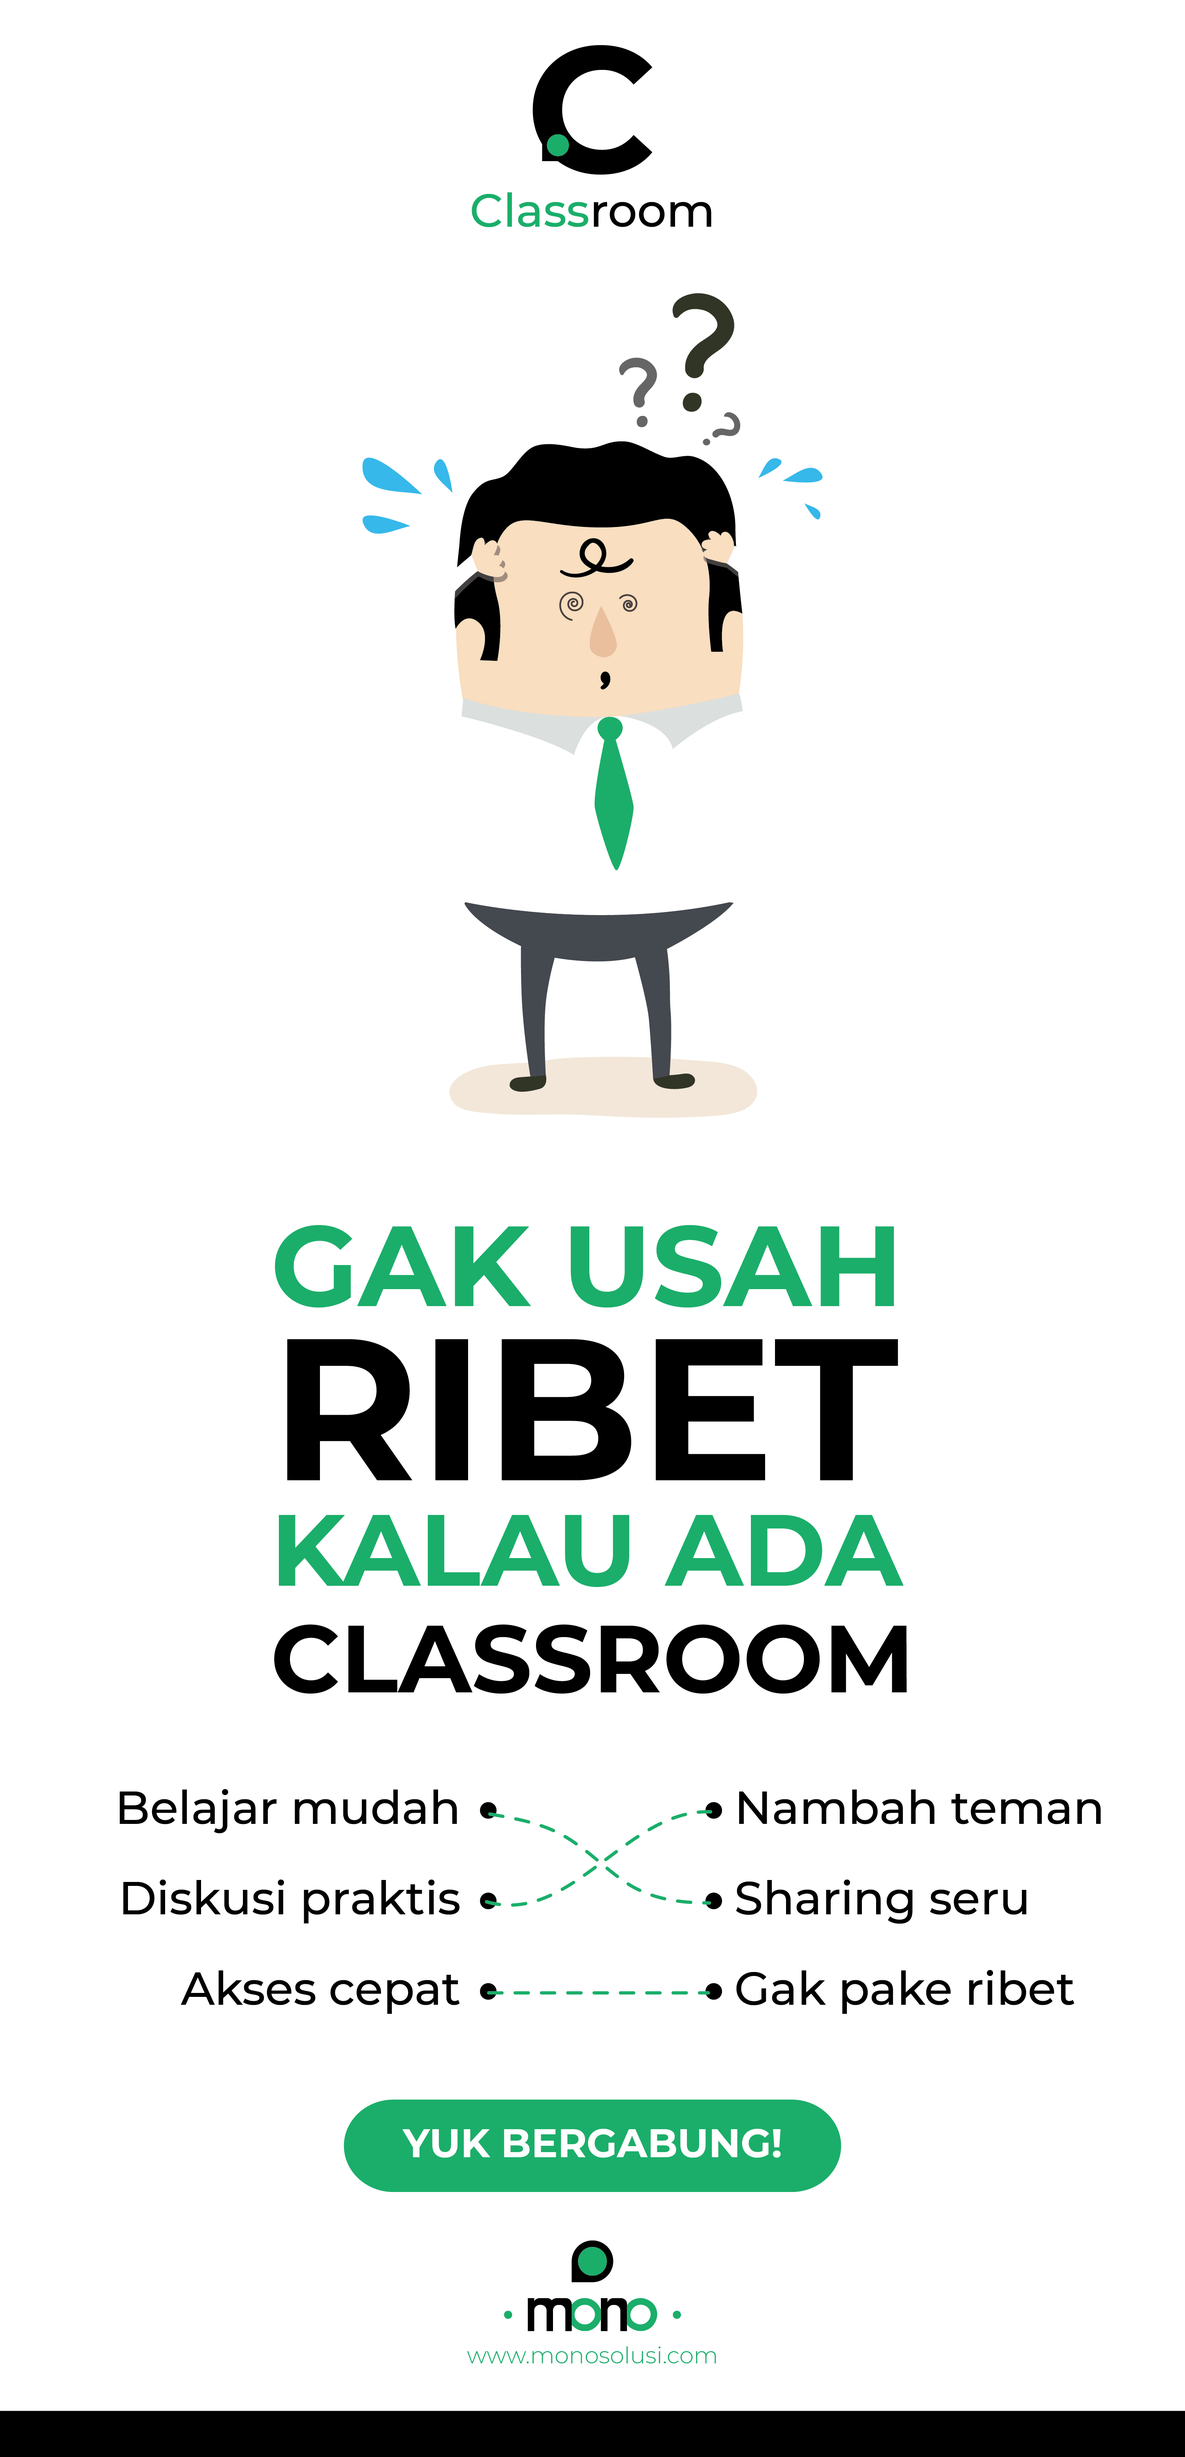
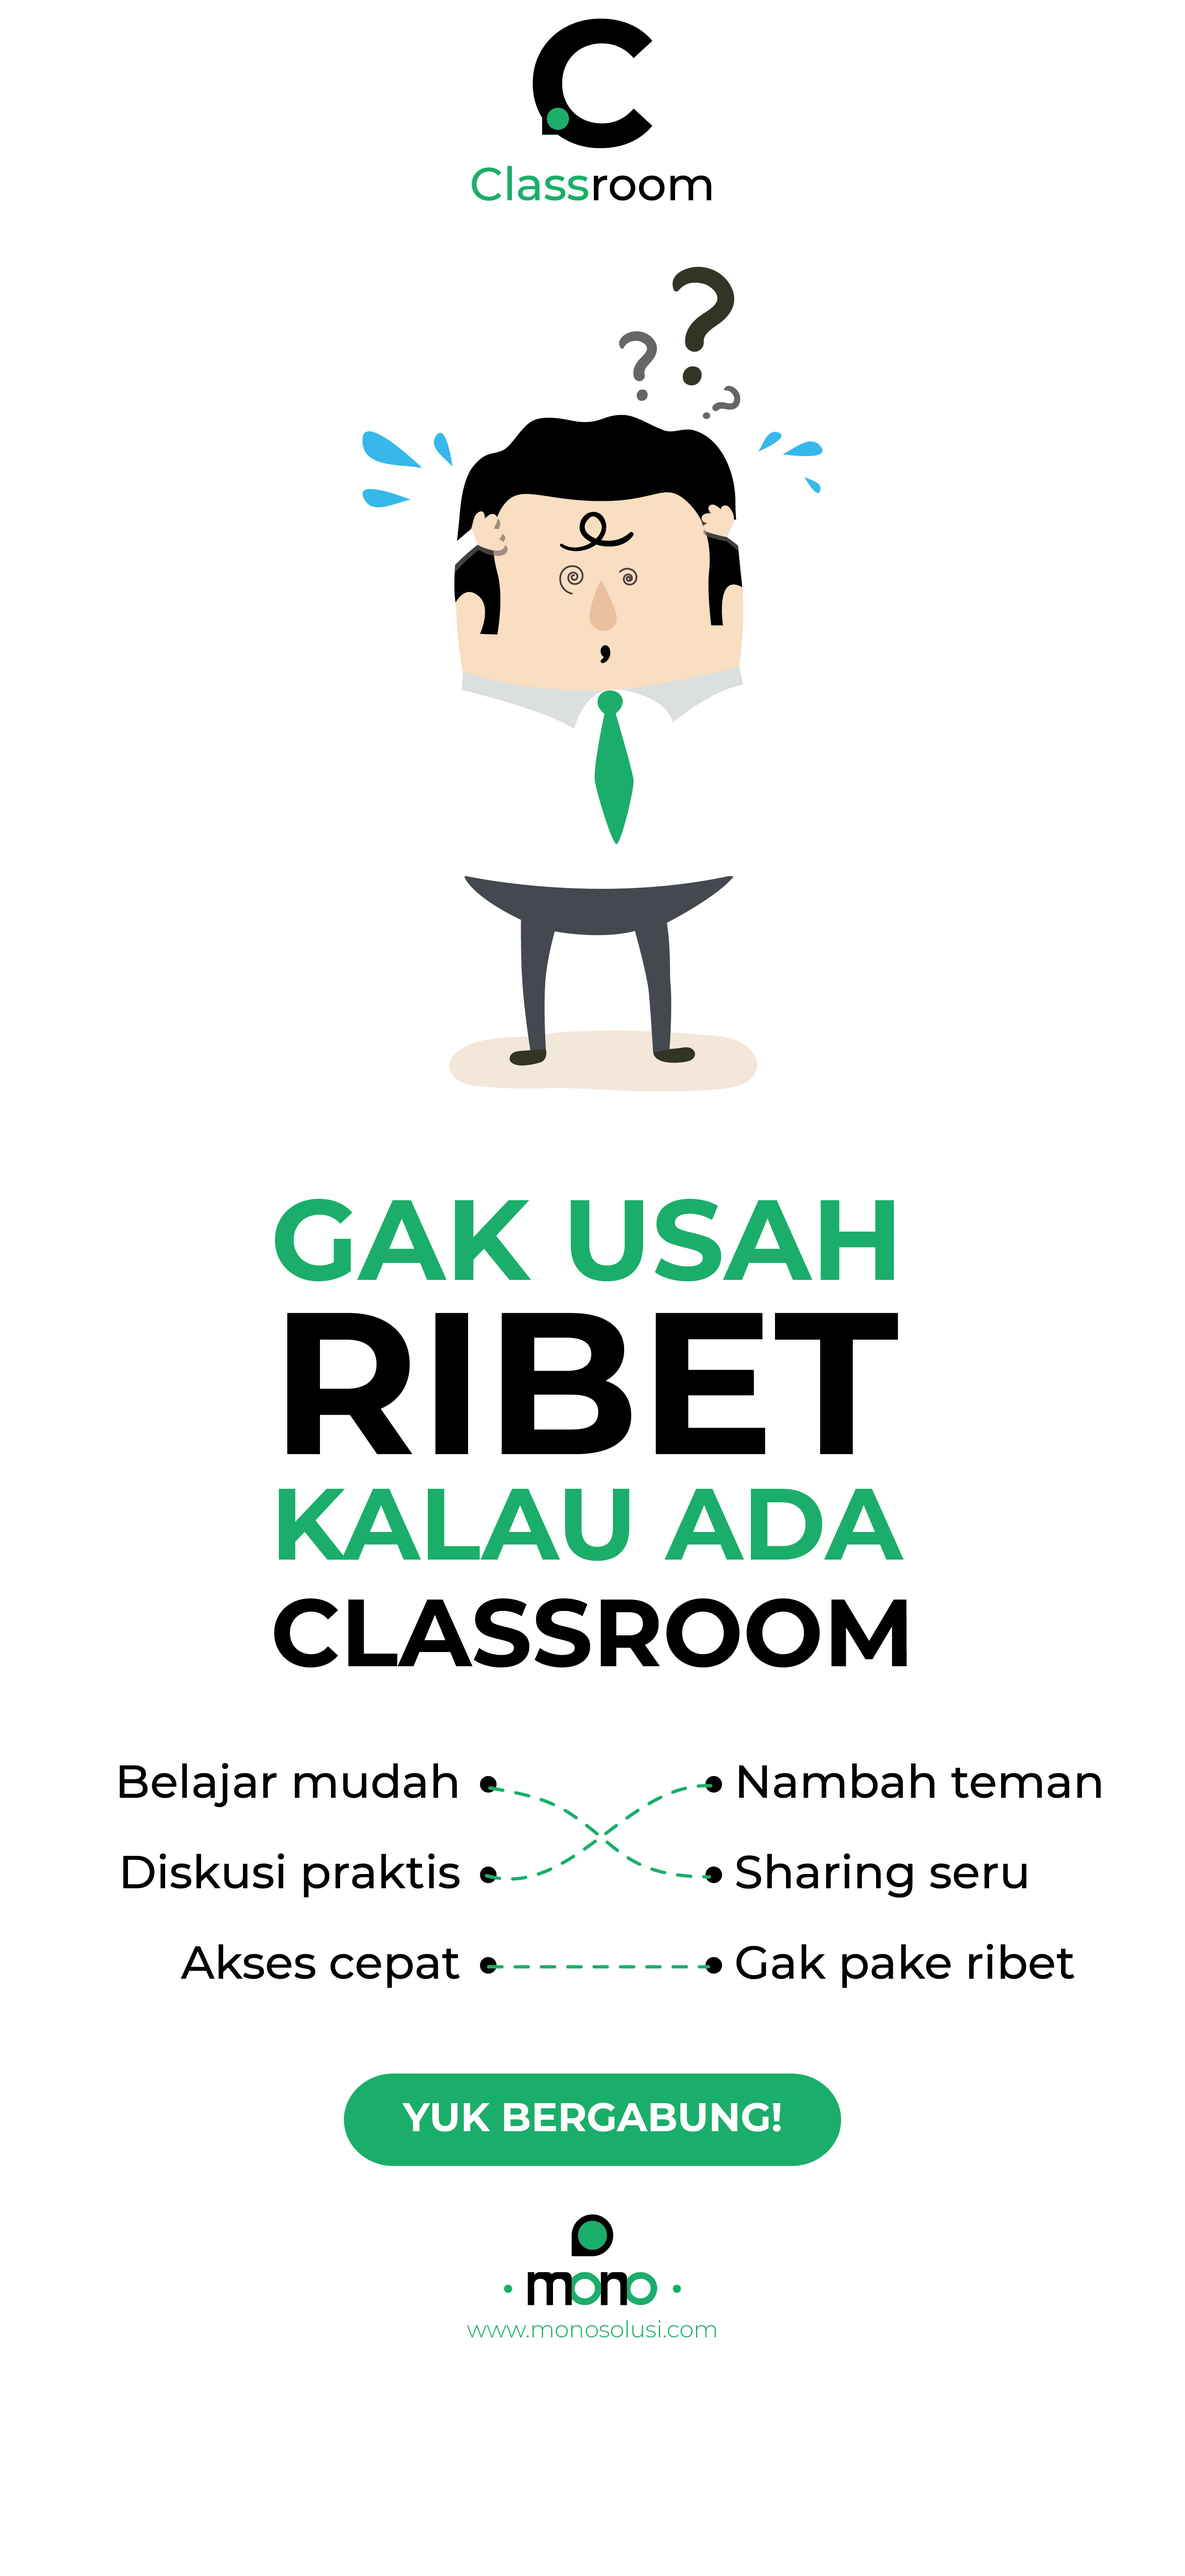
- fix introducing classroom

Changed region(s): [[0.0, 0.0, 1.0, 1.0], [0.651, 0.1559, 0.713, 0.2183], [0.31, 0.1559, 0.341, 0.2183]]

diff --git a/modules/Classroom/screens/IntroductionScreen/index.js b/modules/Classroom/screens/IntroductionScreen/index.js
@@ -37,7 +37,7 @@ export default class IntroductionScreen extends React.PureComponent {
                 <Image source={require('./images/intromono3.jpg')} 
                   resizeMode='contain'
                   style={{
-                    maxHeight: height-65,
+                    maxHeight: height-40,
                     maxWidth: width,
                     }} />
               </View>
